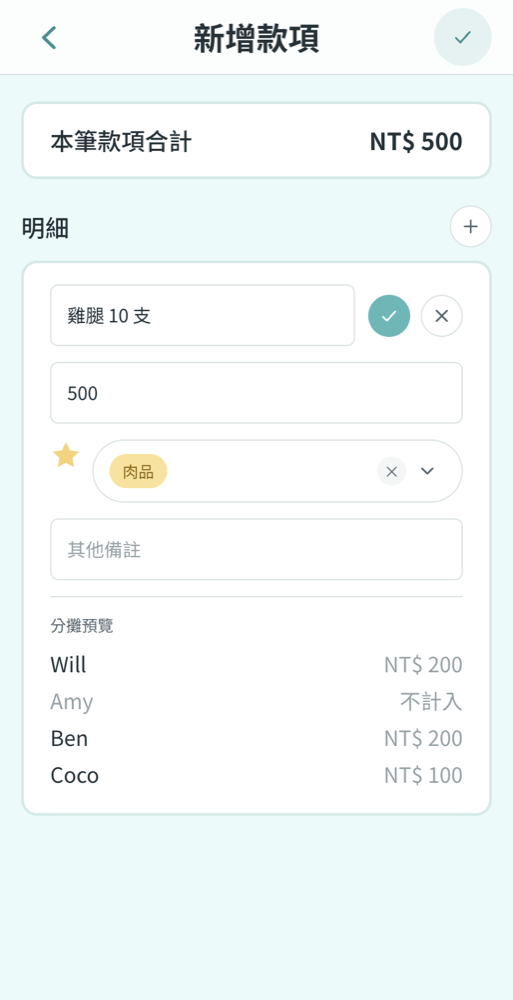
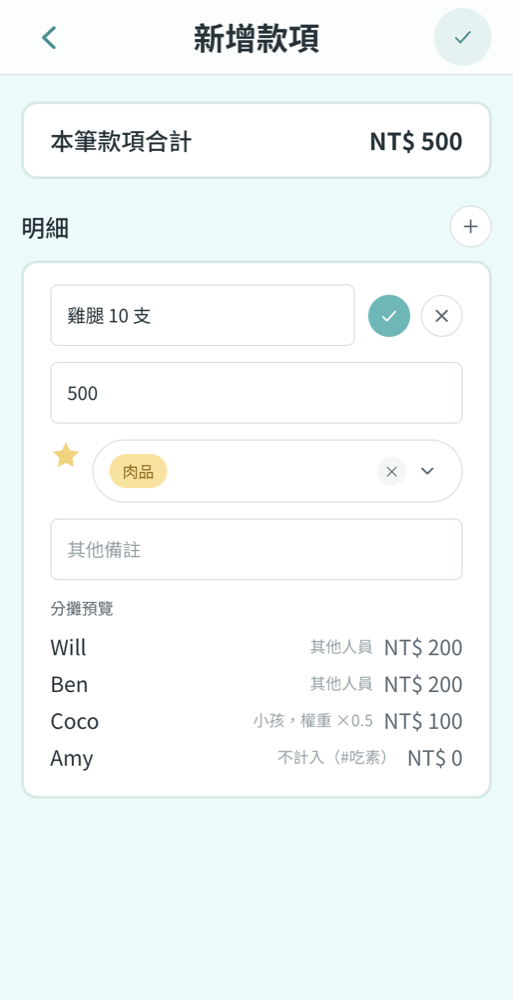
docs(report): credit #9 for the live split preview
The preview moved to go-split-frontend#9, which also shows each
member's reason. Retake the 2.2 screenshot from that branch.

Claude-Session: https://claude.ai/code/session_01NSCyH79WobUMtC5qNxNuEA

Changed region(s): [[0.499, 0.62, 0.9045, 0.806], [0.0936, 0.589, 0.2183, 0.806]]

diff --git a/docs/report/02-ux.md b/docs/report/02-ux.md
@@ -52,9 +52,9 @@ product moves that work into rules that the host sets once.
   and rules (for example, 肉品: #吃素 不計入, #小孩 ×0.5). Most hosts never
   have to open the rule editor.
 - **Tag the line, and see the split before saving.** The host enters a name,
-  an amount and a tag, and the form previews each member's share as they
-  type. For NT$ 500 of meat: Will and Ben pay 200, Coco pays 100 (#小孩 ×0.5),
-  and Amy is not counted.
+  an amount and a tag, and the form previews each member's share and the
+  reason as they type. For NT$ 500 of meat: Will and Ben pay 200, Coco pays
+  100 (小孩，權重 ×0.5), and Amy shows 不計入（#吃素）.
 - **The browser runs the server's engine.** The preview and the rule
   editor's checks use the Go engine compiled to WASM. So what the host sees
   before saving is what the API stores.
@@ -100,6 +100,6 @@ fixed versions:
   time instead of the event date. Both are fixed in
   [go-split-frontend#19](https://github.com/2026-MentorShip-Project/go-split-frontend/pull/19).
 - A member left out of a line saw no reason. Fixed in #19.
-- The new-expense form had no live preview. Fixed in #19, and
-  [#9](https://github.com/2026-MentorShip-Project/go-split-frontend/pull/9)
-  covers it too, with the same preview in the rule editor.
+- The new-expense form had no live preview. Fixed in
+  [#9](https://github.com/2026-MentorShip-Project/go-split-frontend/pull/9),
+  which adds the same preview to the rule editor.
